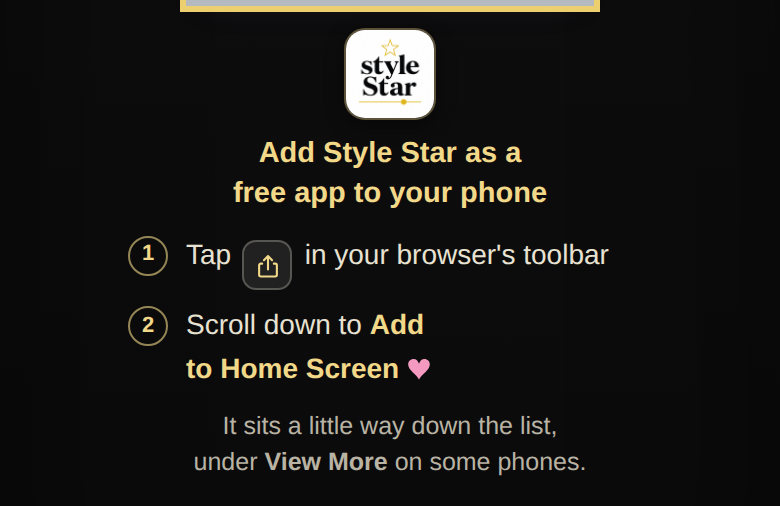
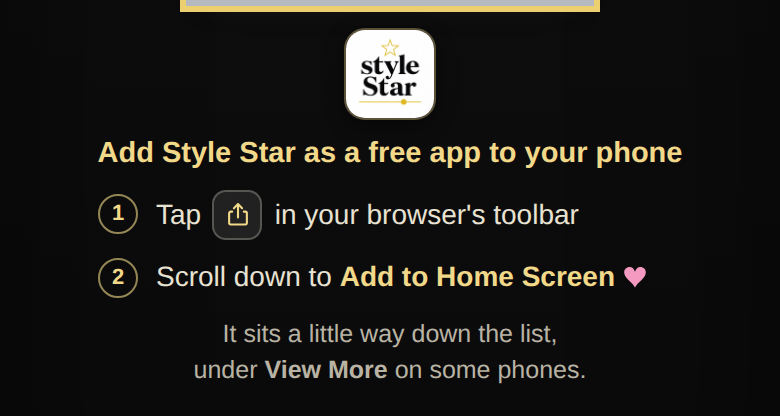
A2HS whisper: level the share chip, keep both steps on one line
Two layout notes from Cath's live screenshot.

The chip sat below the line of text because it used vertical-align:-8px. It
now uses vertical-align:middle with a 1.7px nudge, measured dead level.

Step 2 wrapped. Measured rather than guessed: her wording needs 271px, the
step cap was 262px, and 286px was actually available at 390 — the cap was
the limiter, not the screen. Cap raised to 292px and the whisper's side
padding trimmed 22 to 12px, which buys 20px. Both steps now hold one line
at 390 and at 360.

At 320 they still wrap, deliberately: she asked for no smaller font, and
shrinking type on the readability audience is the wrong trade.

a2hs.js grew 33 to 38 checks. hubs 46, e2e 29, nav 67 green.

Claude-Session: https://claude.ai/code/session_01HuwNi71nVHu83Fdmd35t4z

diff --git a/index.html b/index.html
@@ -1193,7 +1193,9 @@ body.card-fb{padding:0}
    The real app icon previews above the line, rounded like her home screen will
    round it. The iOS "Add to Home Screen" bold is EMPHASIS (no underline:
    nothing to tap); only the Android "Add it now" (b.tap) gets the underline. */
-#a2hs{display:none;margin:14px 14px 14px;padding:0 22px;text-align:center}
+/* side padding trimmed 22 → 12px (Cath, 2026-08-08) to buy the width that keeps
+   step 2 on ONE line: her wording needs 271px and the old cap left only 262px */
+#a2hs{display:none;margin:14px 14px 14px;padding:0 12px;text-align:center}
 #a2hs.on{display:block}
 #a2hs .a2-ico{display:block;width:46px;height:46px;border-radius:10.5px;margin:0 auto 7px;box-shadow:0 3px 10px rgba(0,0,0,.45);border:1px solid rgba(242,216,137,.35)}
 /* ⚠ 14px UPRIGHT, not 12.5px italic (Cath's live test, 2026-08-08): italic at
@@ -1205,12 +1207,14 @@ body.card-fb{padding:0}
 #a2hs .a2-lead{display:block;font:600 14.5px/1.4 'Jost',sans-serif;color:#F2D889;margin-bottom:9px;text-wrap:balance}
 /* numbered steps, so the line reads as an INSTRUCTION and not as controls —
    she tapped the icon, the wording and the glyph expecting them to do something */
-#a2hs .a2-step{display:flex;align-items:flex-start;gap:9px;text-align:left;max-width:262px;margin:0 auto 7px}
+#a2hs .a2-step{display:flex;align-items:flex-start;gap:9px;text-align:left;max-width:292px;margin:0 auto 7px}
 #a2hs .a2-n{flex:0 0 auto;width:20px;height:20px;margin-top:1px;border-radius:50%;border:1.2px solid rgba(242,216,137,.6);color:#F2D889;font:600 11px/1 'Jost',sans-serif;display:flex;align-items:center;justify-content:center}
 /* the share glyph sits in a raised "key cap" so it reads as a PICTURE of a
    button somewhere else, never as a button here — on iOS it can never be
    tappable, because Apple exposes no way to trigger Add to Home Screen */
-#a2hs .a2-chip{display:inline-flex;align-items:center;justify-content:center;width:25px;height:25px;border-radius:7px;background:rgba(255,255,255,.09);border:1px solid rgba(232,226,210,.28);vertical-align:-8px;margin:0 2px}
+/* ⚠ vertical-align:middle, NOT a negative offset — the old -8px sat the chip
+   visibly below the line of text (Cath's screenshot, 2026-08-08) */
+#a2hs .a2-chip{display:inline-flex;align-items:center;justify-content:center;width:25px;height:25px;border-radius:7px;background:rgba(255,255,255,.09);border:1px solid rgba(232,226,210,.28);vertical-align:middle;position:relative;top:-1.7px;margin:0 2px}
 #a2hs .a2-note{display:block;font:400 12.5px/1.45 'Jost',sans-serif;color:#B9B3A4;margin-top:8px;text-wrap:balance}
 #a2hs .a2-note b{color:#B9B3A4;font-weight:600}
 #a2hs .a2-sh{width:12px;height:12px;vertical-align:-2px}

diff --git a/scratchpad/a2hs.js b/scratchpad/a2hs.js
@@ -119,6 +119,33 @@ console.log('2. iPhone: the whisper shows with the icon preview, in her wording'
   ok(/View More/.test(fix.note), 'the note warns about View More (the real iOS flow)');
   ok(fix.saysToolbar, 'says "your browser\'s toolbar", never "at the bottom" (the bar can be moved)');
   ok(fix.tappable === 0, 'NOTHING on iOS looks tappable — the platform offers no install API');
+
+  // Her two layout notes from the live screenshot (2026-08-08): the chip sat
+  // below the line of text, and step 2 broke across two lines.
+  const layout = async (pg) => pg.evaluate(() => {
+    const el = document.getElementById('a2hs');
+    const steps = [...el.querySelectorAll('.a2-step')];
+    const lines = steps.map(s => {
+      const t = s.lastElementChild;
+      return Math.round(t.getBoundingClientRect().height / parseFloat(getComputedStyle(t).lineHeight));
+    });
+    const chip = el.querySelector('.a2-chip').getBoundingClientRect();
+    const t1 = steps[0].lastElementChild;
+    const mid = t1.getBoundingClientRect().top + parseFloat(getComputedStyle(t1).lineHeight) / 2;
+    return { lines, off: Math.abs((chip.top + chip.bottom) / 2 - mid),
+      over: Math.max(0, ...[...el.querySelectorAll('*')].map(e => e.getBoundingClientRect().right)) - el.getBoundingClientRect().right };
+  });
+  const L390 = await layout(page);
+  ok(L390.lines.every(n => n === 1), '390: both steps sit on ONE line each', L390.lines.join(','));
+  ok(L390.off <= 1, 'the share chip is centred on its line of text, not sitting low', L390.off.toFixed(1) + 'px off');
+  ok(L390.over <= 0, '390: nothing overflows the whisper', Math.round(L390.over) + 'px');
+  {
+    const narrow = await boot({ userAgent: IOS_UA, isMobile: true, hasTouch: true, viewport: { width: 360, height: 844 } });
+    const L360 = await layout(narrow.page);
+    ok(L360.lines.every(n => n === 1), '360 (Display Zoom): both steps still one line each', L360.lines.join(','));
+    ok(L360.over <= 0, '360: nothing overflows the whisper', Math.round(L360.over) + 'px');
+    await narrow.ctx.close();
+  }
   console.log('3. No retirement (her call): it keeps inviting until she installs');
   for (let v = 2; v <= 7; v++) {
     await page.reload({ waitUntil: 'domcontentloaded' });

diff --git a/CLAUDE.md b/CLAUDE.md
@@ -97,7 +97,17 @@ SOLVED** · her rewrite of the restore email in MailerLite · **Instagram in the
    - ⚠ **"your browser's toolbar", NEVER "at the bottom of your screen."** Safari's bar can be moved to the
      top and Chrome on iOS differs. **This also corrected an inconsistency in Claude's own advice** — B was
      argued down for "down here" while A's step 1 said "at the bottom". Same fault, both fixed.
-   - **Verified: `a2hs.js` grew 26 → 33 checks**, pinning the fixes so they can't regress: ≥14px, upright not
+   - ✅ **HER TWO LAYOUT NOTES FROM THE LIVE SCREENSHOT, both fixed same session:** (a) **the share chip sat
+     BELOW the line of text** — it was `vertical-align:-8px`; it is `vertical-align:middle` + `top:-1.7px`
+     now, measured dead level (0.0px off the text line's centre). ⚠ **Don't go back to a negative
+     vertical-align.** (b) **step 2 wrapped.** ▶ **Measured, not guessed: her wording needs 271px, the step
+     cap was 262px, and 286px was actually AVAILABLE at 390** — the cap was the limiter, not the screen. Cap
+     raised to 292px and `#a2hs` side padding trimmed 22 → 12px, which buys 20px. **Both steps now hold ONE
+     line at 390 AND 360 (Display Zoom).** ⚠ At 320 they still wrap, deliberately — she said *"I definitely
+     don't want the font any smaller"*, and shrinking type on the readability audience is the wrong trade.
+     ▶ **The alternative if 320 ever matters: "Choose Add to Home Screen" needs only 232px and fits every
+     width** — the "scroll down" wording duplicates the note below it anyway. Offered, not taken.
+   - **Verified: `a2hs.js` grew 26 → 38 checks**, pinning the fixes so they can't regress: ≥14px, upright not
      italic, two numbered steps, the glyph inside a chip, the note naming View More, the toolbar wording, and
      — the important one — **zero elements on the iOS path that look tappable** (no anchor, no onclick, no
      `cursor:pointer`). As-built: `scratchpad/a2hs-built.png`.
